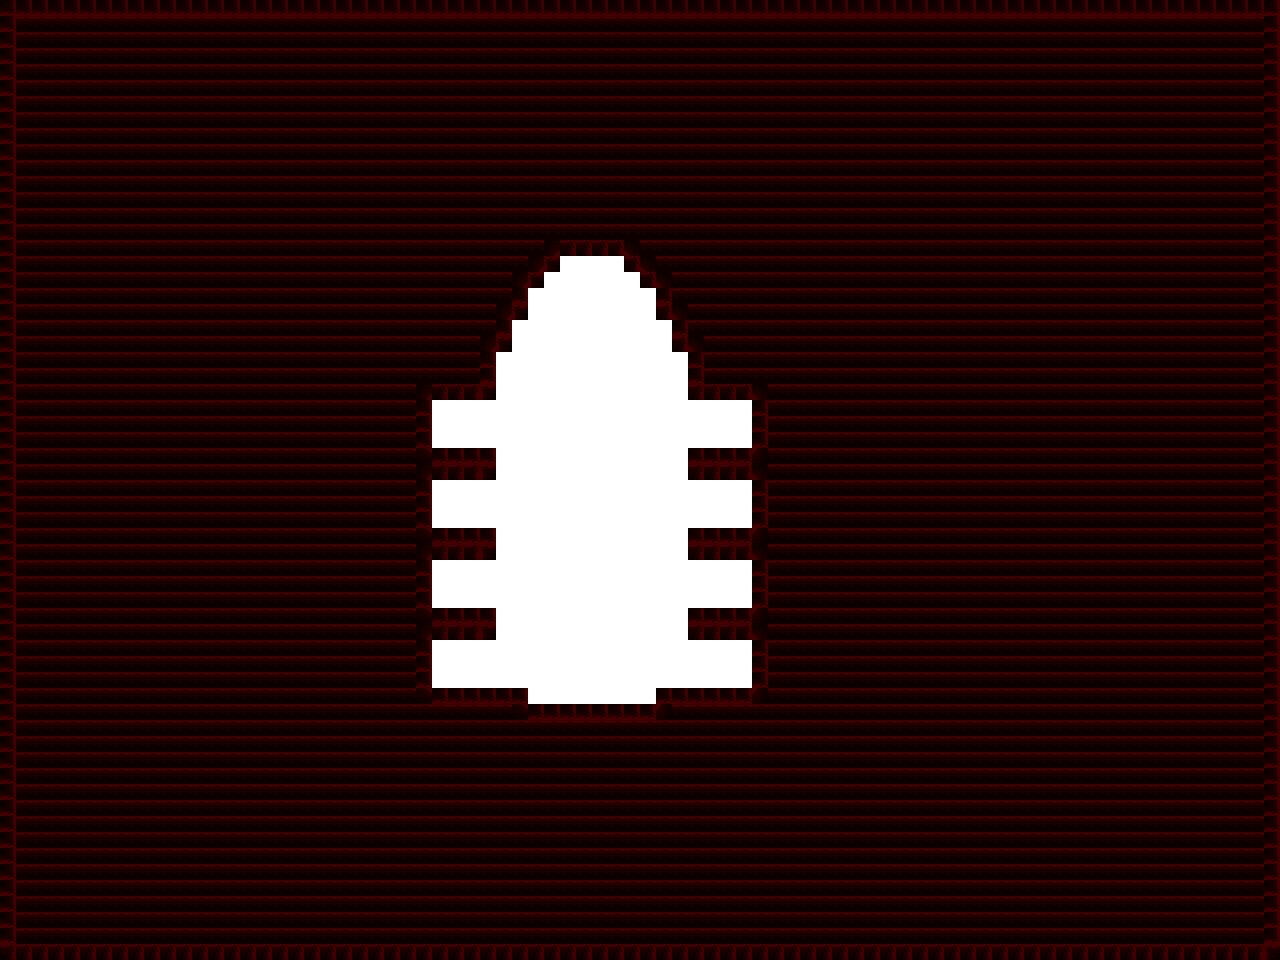
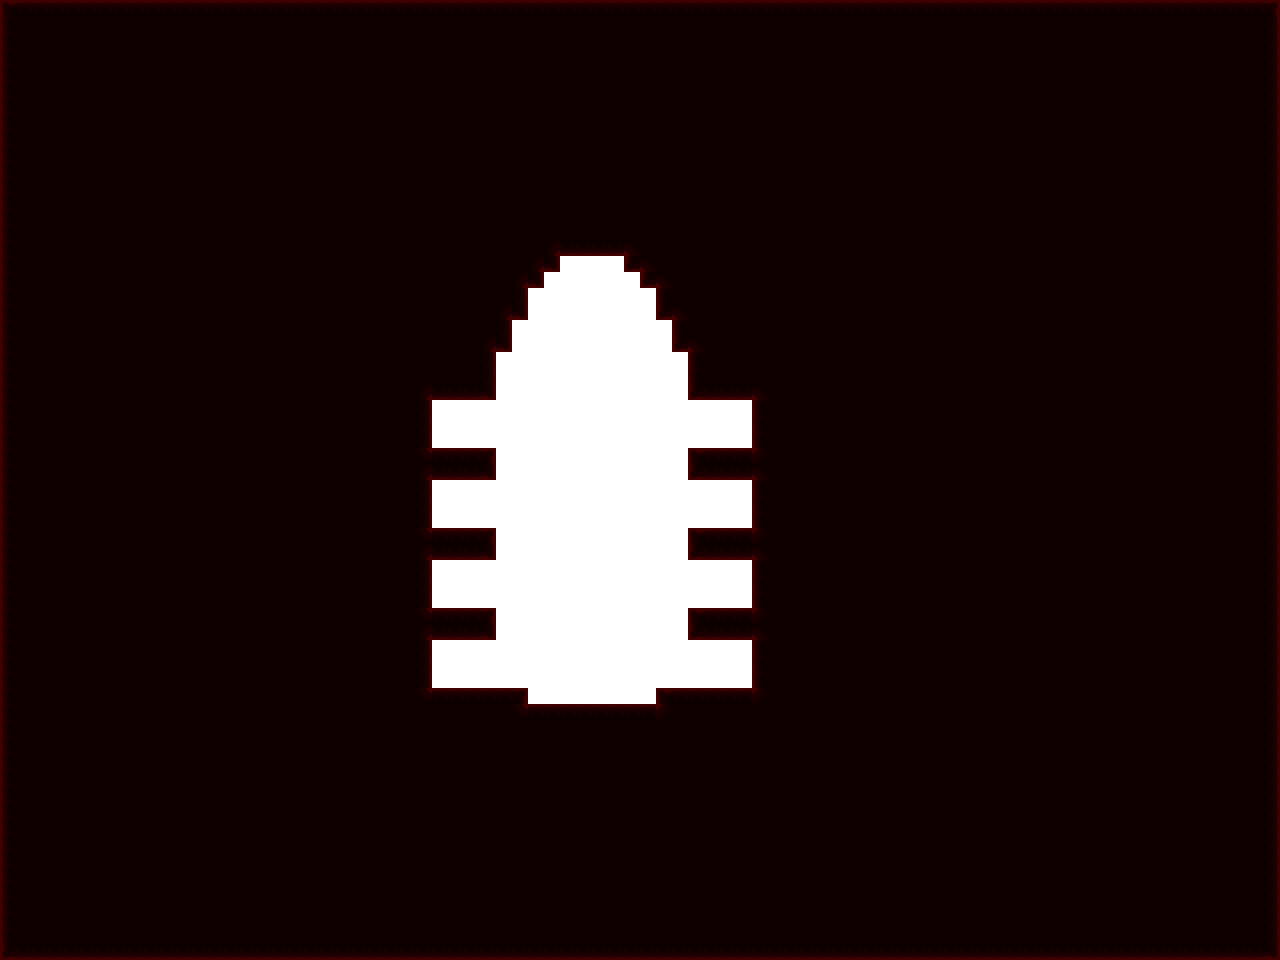
FINALLY, WORKING LOGIC TILES!

Changed region(s): [[0.0, 0.0, 1.0, 1.0]]

diff --git a/editor/src/main.cpp b/editor/src/main.cpp
@@ -276,7 +276,7 @@ void DrawTileTray()
 #define DIR_UP_RIGHT_CORNER   9
 #define DIR_DOWN_LEFT_CORNER  10
 #define DIR_DOWN_RIGHT_CORNER 11
-#define DIR_NONE              0
+#define DIR_NONE              12
 
 int GetWallTileTextureIndex(const std::array<bool, 8>& directions)
 {
@@ -303,29 +303,29 @@ int GetWallTileTextureIndex(const std::array<bool, 8>& directions)
         return DIR_DOWN_LEFT_CORNER; // NDLC
 
     // Check for two-direction cases
-    if (directions[DIR_DOWN] && directions[DIR_RIGHT])
+    if (!directions[DIR_DOWN] && !directions[DIR_RIGHT])
         return DIR_DOWN_RIGHT; // NDR
 
-    if (directions[DIR_DOWN] && directions[DIR_LEFT])
+    if (!directions[DIR_DOWN] && !directions[DIR_LEFT])
         return DIR_DOWN_LEFT; // NDL
 
-    if (directions[DIR_UP] && directions[DIR_RIGHT])
+    if (!directions[DIR_UP] && !directions[DIR_RIGHT])
         return DIR_UP_RIGHT; // NUR
 
-    if (directions[DIR_UP] && directions[DIR_LEFT])
+    if (!directions[DIR_UP] && !directions[DIR_LEFT])
         return DIR_UP_LEFT; // NUL
 
     // Check for single-direction cases
-    if (directions[DIR_UP])
+    if (!directions[DIR_UP])
         return DIR_UP; // NU
 
-    if (directions[DIR_DOWN])
+    if (!directions[DIR_DOWN])
         return DIR_DOWN; // ND
 
-    if (directions[DIR_LEFT])
+    if (!directions[DIR_LEFT])
         return DIR_LEFT; // NL
 
-    if (directions[DIR_RIGHT])
+    if (!directions[DIR_RIGHT])
         return DIR_RIGHT; // NR
 
     return 12; // Default tile index
